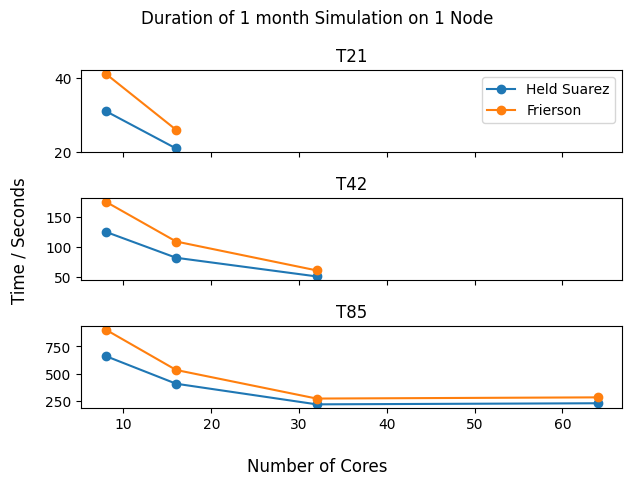
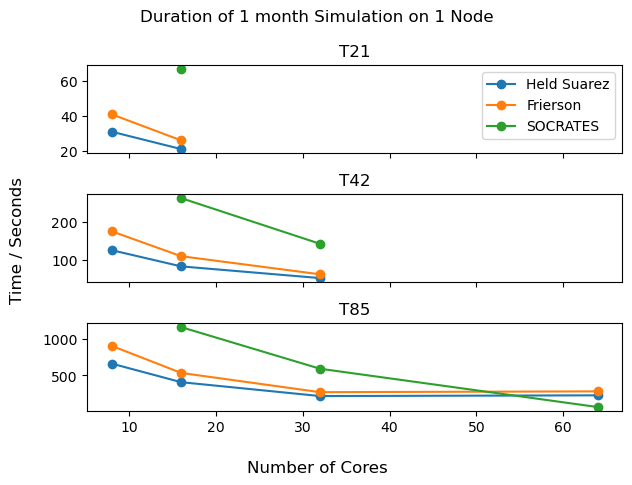
Add socrates to diagnostic plots

diff --git a/docs/Isca/benchmarking.md b/docs/Isca/benchmarking.md
@@ -306,10 +306,20 @@ The variables corresponding to each index, as well as the times, are saved in th
 `/gpfs1/home/jamd1/isca_jobs/benchmarking/task_times.csv`.
 
 ## Results
-I ran the benchmarking for both the 
+I ran the benchmarking for the
 [*Held Suarez*](https://github.com/ExeClim/Isca/blob/master/exp/test_cases/held_suarez/held_suarez_test_case.py) and 
 [*Frierson*](https://github.com/ExeClim/Isca/blob/master/exp/test_cases/frierson/frierson_test_case.py) 
-test experiments for 1 month on 1 node (using the *debug* partition). 
+test experiments, as well as a test using [*SOCRATES*](../namelists/radiation/socrates.md) 
+for 1 month on 1 node (using the *debug* partition).
+
+The [*SOCRATES*](../namelists/radiation/socrates.md) experiment was the same as the 
+[*Frierson*](https://github.com/ExeClim/Isca/blob/master/exp/test_cases/frierson/frierson_test_case.py) case but with
+an [`albedo`](../namelists/surface/mixed_layer.md#albedo_value) of $0.38$, a 
+[`depth`](../namelists/surface/mixed_layer.md#depth) of $5m$ and the 
+[`socrates_nml`](../namelists/radiation/socrates.md) namelist set up with the values used in the 
+[`socrates_aquaplanet.py`](https://github.com/ExeClim/Isca/blob/master/exp/test_cases/socrates_test/socrates_aquaplanet.py) 
+example script. Running this with only $8$ cores gave an error, hence why no times are included.
+
 The time taken for the simulations are shown below:
 
 ![image.png](../images/Isca/benchmarking.png){width="500"}
@@ -327,5 +337,4 @@ All other results were run on one node, using the *debug* partition.
     [`mpp_domains_define.inc`](https://github.com/ExeClim/Isca/blob/9560521e1ba5ce27a13786ffdcb16578d0bd00da/src/shared/mpp/include/mpp_domains_define.inc#L189)
     and the issue is likely to be that you can't have a resolution lower than the number of cores. 
     This is probably because, it causes problems when trying to splitting longitude or latitude domains between cores.
-
 
